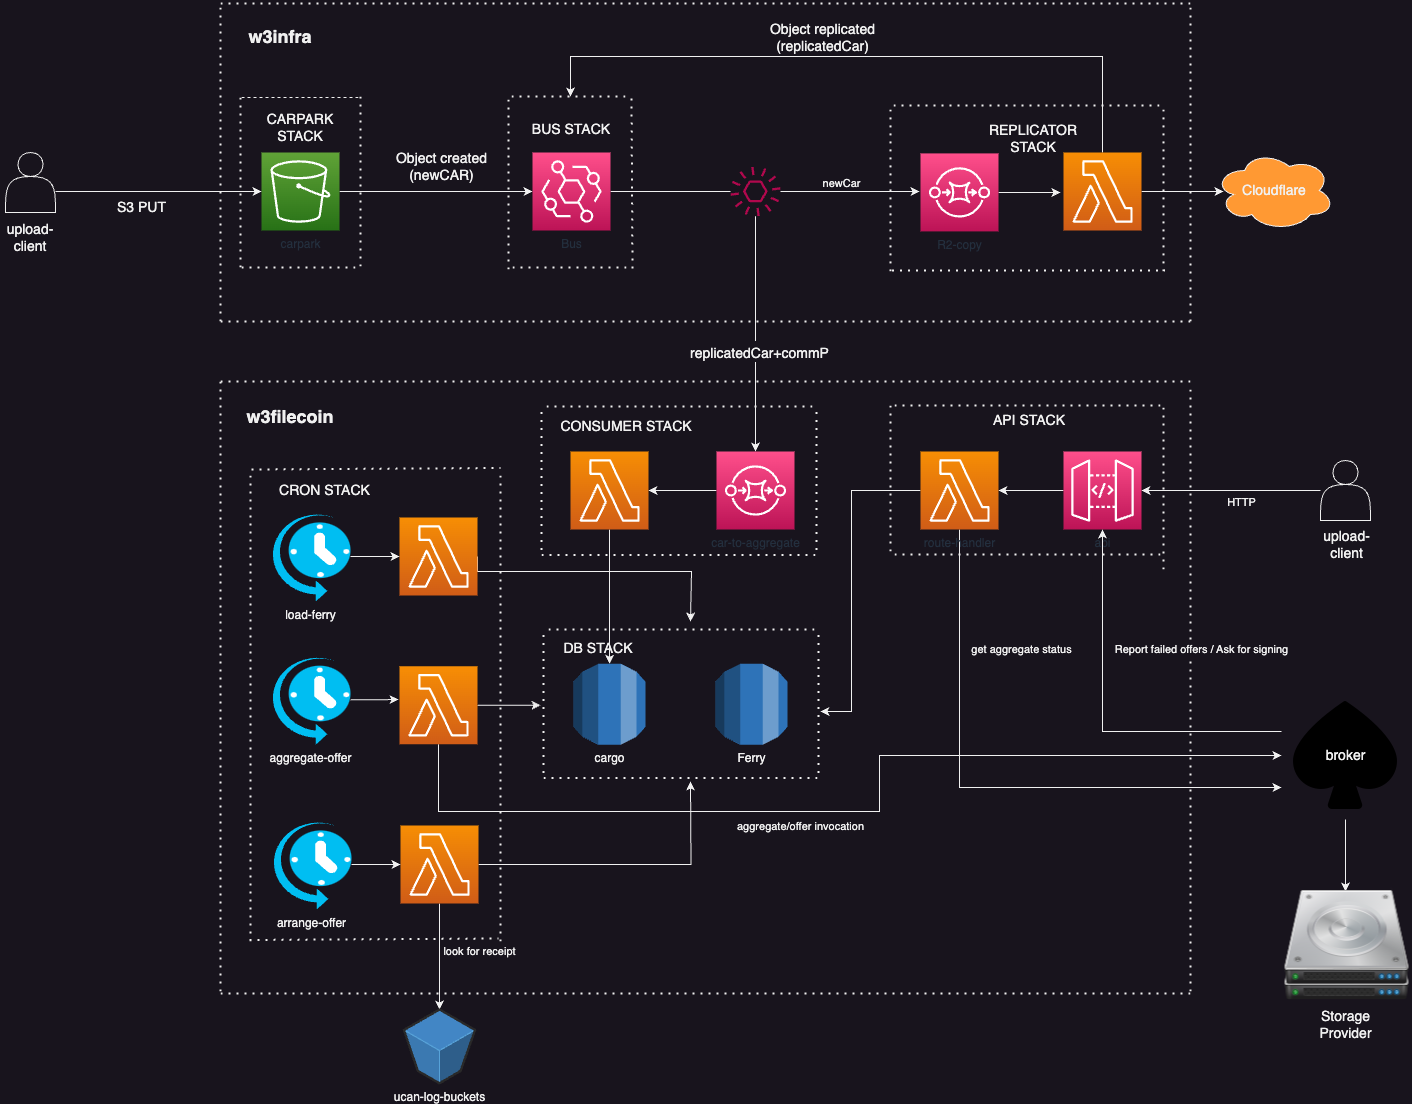
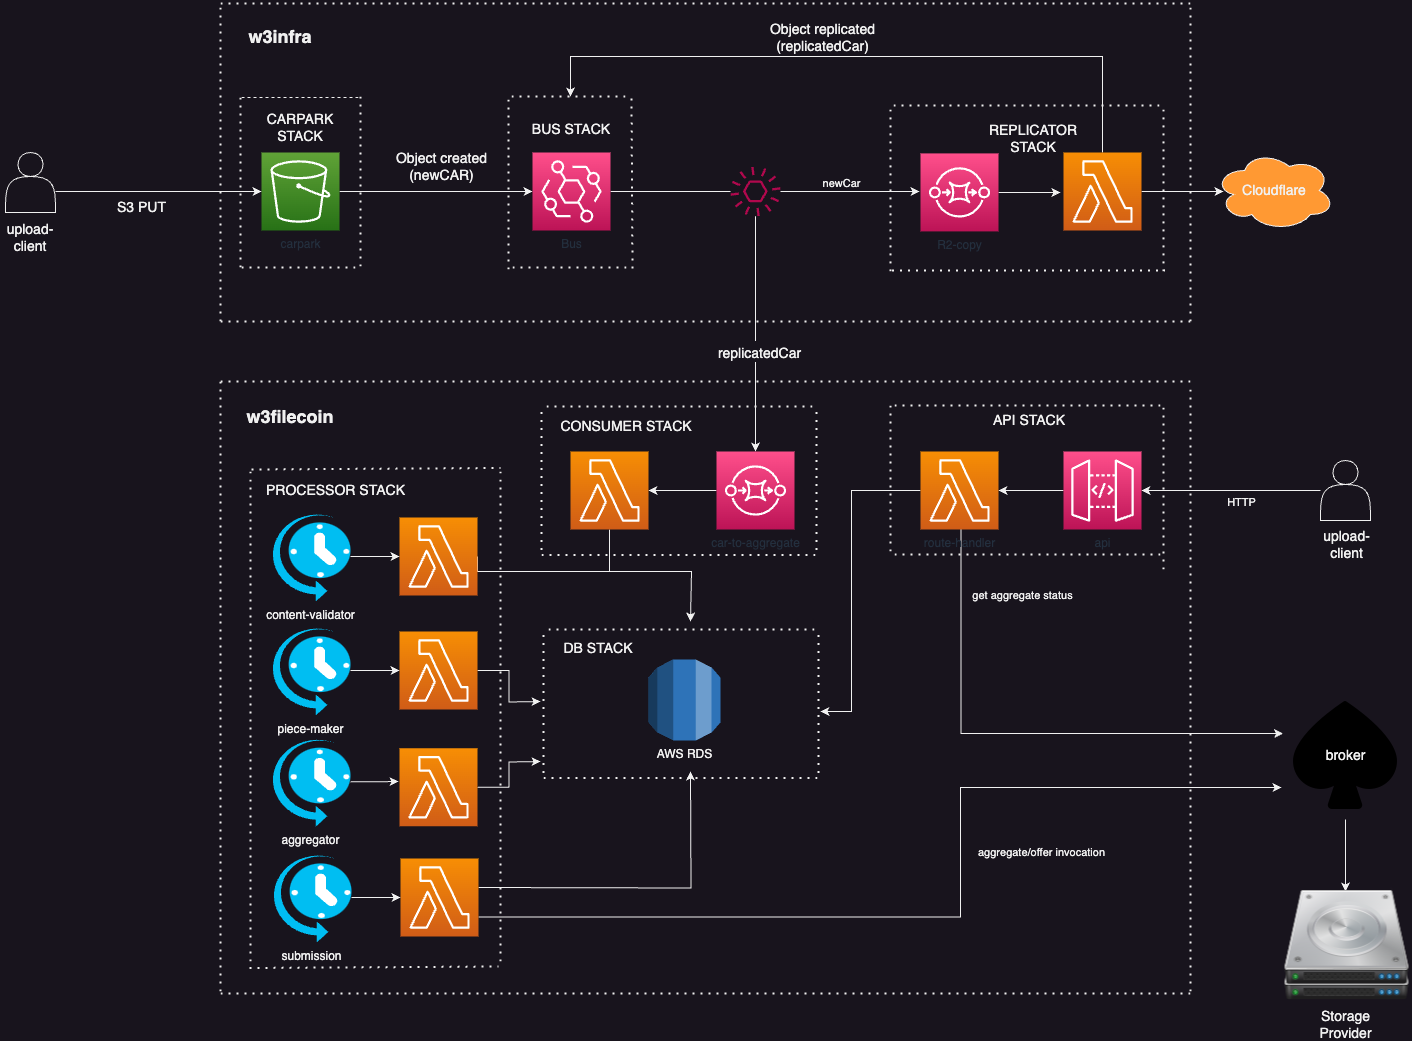
fix: address review by relying on new data model avoiding mutations and schedulers to deal with state machine meaning mutating tables

diff --git a/docs/architecture.md b/docs/architecture.md
@@ -4,39 +4,38 @@
 
 ## Background
 
-[web3.storage](http://web3.storage) APIs enable users to easily upload CAR files, while getting them available on the IPFS Network and stored in multiple locations via Filecoin Storage Providers. 
+[web3.storage](http://web3.storage) is a Storefront providing APIs to enable users to easily upload CAR files, while getting them available on the IPFS Network and stored in multiple locations via Filecoin Storage Providers. It relies on Spade as a broker to get their user data into Filecoin Storage Providers. Currently, Spade requires a Filecoin Piece with size between 15.875GiB and 31.75GiB to create deals with Filecoin Storage Providers. Moreover, the closer a Filecoin Piece is closer to the upper bound, the most optimal are the associated storage costs.
 
-When CAR files are uploaded they go through a pipeline with multiple steps (like indexing blocks, validating blocks, generating commitment proofs, etc). There are two requirements for these CAR files to make their way to the w3filecoin pipeline via its consumer stack:
+Taking into account that [web3.storage](http://web3.storage) onboards any type of content (up to a maximum of 4GiB-padded shards to have better utilization of Fil sector space), multiple CAR files uploaded need to be aggregated into a bigger Piece that can be offered to Filecoin Storage Providers. w3filecoin pipeline keeps track of queued CARs (cargo) to be included in Storage Provider deals.
 
-- CAR file is written into web3.storage’s `carpark` bucket in R2
-- The piece commP and piece size are computed for the CAR file
-
-[web3.storage](http://web3.storage) relies on Spade as a broker to get their user data into Filecoin Storage Providers. Currently, Spade requires a Filecoin Piece with size between 15.875GiB and 31.75GiB to create deals with Filecoin Storage Providers. Moreover, the closer a Filecoin Piece is closer to the upper bound, the most optimal are the associated storage costs.
-
-Taking into account that [web3.storage](http://web3.storage) onboards any type of content (up to a maximum of 4GiB-padded shards to have better utilization of Fil sector space), multiple CAR files uploaded need to be aggregated into a bigger Piece that can be offered to Filecoin Storage Providers. w3filecoin pipeline keeps track of queued CARs (cargo) to be included in Aggregates (ferry), in order to offer these aggregates to Storage Providers. Moreover, w3filecoin operates the lifecycle of these cargo and ferries from ingestion until either succeeding landing into Filecoin deals, or failing.
+When a CAR file is written into a given web3.storage's bucket, its metadata gets into the w3filecoin processing pipeline. This pipeline is composed of multiple processing queues, together with a job scheduler per queue that will perform the processing. Each queue handles a processing stage with the goal of getting CAR files into Filecoin deals with Storage Providers.
 
 ## High Level design
 
 The high level flow for the w3filecoin Pipeline is:
 
-- Event is triggered once each CAR is copied into R2, its metadata {pieceSize+pieceLink+carLink} is added to the consumer of the w3filecoin pipeline (AWS SQS).
-    - This can be achieved by either waiting for a receipt of replication, or AWS Event Bridge event.
-- SQS lambda consumer will add given entries to a cargo tracking DB where we keep track of the CARs awaiting to be included into Storage Providers deals.
-- “Aggregates” (multiple CARs) will be offered to Storage Providers once the available CARs have enough size to fill up one.
-- w3filecoin will keep looking for updates about previously offered aggregates
+- **Event** is triggered once a CAR file is written into a bucket with its metadata {`link`, `size`, `bucketName`, `bucketEndpoint`}. This event is added to a `content_validator_queue`.
+- **Content Validator process** validates CARs and writes references to a `content` table.
+- On its own schedule, **Piece maker process** can pull queued content from a `content_queue`, derive piece info for them and write records to a `piece` & `inclusion` tables.
+  - a `inclusion` table enables same piece to be included in another aggregate if a deal fails.
+- **Agregagtor process** reads from a `cargo_queue` (backed by `inclusion` table), attempts to create an aggregate and if successful it writes to an `aggregate` table.
+- **Submission process** reads from the `aggregate_queue`, submits aggregates to the agency (spade proxy) and writes deal record with status "PENDING".
+- TBD deal flow
 
-The w3filecoin pipeline is modeled into 4 different SST Stacks that will be have their infrastructure provisioned in AWS via AWS CloudFormation. These are:
+![Pipeline processes](./processes.png)
+
+The w3filecoin pipeline is modeled into 4 different SST Stacks that will have their infrastructure provisioned in AWS via AWS CloudFormation. These are:
 
 - API Stack
 - Consumer Stack
 - DB Stack
-- CRON Stack
+- Processor Stack
 
 ![Architecture](./architecture.png)
 
 ## API Stack
 
-TODO
+TBC
 API Gateway to expose:
 - Report API for failed aggregates to land into Storage Providers
 - Get to know state of deals
@@ -44,128 +43,163 @@ API Gateway to expose:
 
 ## Consumer Stack
 
-w3filecoin relies on R2 bucket HTTP URLs as the source that Storage Providers will use to fetch CAR files. This way, we need to wait on the replicator to write CAR files into R2. In addition, w3filecoin requires that a `pieceCid` and `pieceSize` is computed for 
+w3filecoin relies on events from Buckets once CAR files are written into them. It is designed to enable multiple sources of CAR files to be easily integrated into the pipeline via its consumer stack.
 
-Once the above conditions are met, an external source triggers an event to the filecoin pipeline to let it know of a new car to be aggregated. Note that this allows us to make filecoin pipeline work with both w3up and CF Hosted APIs.
+As an example, w3filecoin is wired up with `w3infra` as a source of CAR files to get into Filecoin deals. `w3infra` will emit events once CAR files are written into desired buckets. This events should include necessary information of the location of the CAR file to enable w3filecoin to let Storage Providers know where they can fetch the CAR files from.
 
-Further down the line, in case we make writing to R2 first to better optimize gateway performance, it will also be an easy path forward to hook Filecoin pipeline with it, by leveraging receipts.
-
-For MVP the w3infra replicator lambda sends event to the event bridge, being `w3filecoin` responsible for listening on the event bridge for `car-replicated` events.
+Further down the line, consumer stack can be wired with the UCAN Log Stream and use receipts as the trigger.
 
 ## DB Stack
 
-To get CAR files into an aggregated deal, we will need to persist the metadata of these files pending being added to a Filecoin deal in a queue data structure. Potentially, this data structure could also have the concept of priority.
-
-Queue consumers can be triggered (e.g. via a CRON job) to grab items from the Queue and attempt to create an aggregate with them. In case an aggregate can be created, their state should be modified. We can see this as loading up a ferry with cargo once this shipment is ready to being offered via a broker.
+The DB stack relies on Amazon RDS Database to keep the necessary state for the w3filecoin pipeline. Its data model was designed with the aim of being the data structure for each of the processors running within the pipeline, while also enabling the tracking of state of each item in the pipeline and to get a mapping between content CIDs and piece CIDs.
 
 ### Schema
 
-There are two tables within the DB Stack:
-* Cargo - keeps track of cargo (CAR Files ingested by web3.storage) state
-* Ferry - keeps track of aggregates state
-
-Both tables enable an implementation of a Priority Queued based on a State Machine on top of AWS RDS.
-
 ```sql
-CREATE TABLE cargo
+-- Table describes queue of verified CARs to be stored in filecoin
+-- CAR is considered in queue when there is no piece referencing it
+CREATE TABLE content
 (
-	-- Filecoin Piece CID - commP of CAR file
-	link TEXT PRIMARY KEY,
-	-- Filecoin Piece Size
-  size number NOT NULL,
-	-- CAR file CID
-	car_link TEXT NOT NULL,
-  -- State of the cargo in the pipeline
-  state CARGO_STATE NOT NULL,
-  -- Priority in the queue - for now likely same as queuedAt
-  priority TEXT NOT NULL,
-  -- Timestamp
-  inserted TIMESTAMP WITH TIME ZONE DEFAULT timezone('utc'::text, now()) NOT NULL,
-  -- TODO: Maybe timestamps for other stats?
-  -- Filecoin Aggregate CID - commP of commPs
-  ferry_link TEXT REFERENCES ferry(link),
-  -- Failed to add into aggregate code
-  ferry_failed_code TEXT,
-);
-
-CREATE INDEX cargo_stat_idx ON cargo (stat);
-CREATE INDEX cargo_car_link_idx ON cargo (car_link);
-CREATE INDEX cargo_aggregate_link_idx ON cargo (ferrylink);
-
-CREATE TABLE ferry
-(
-	-- Filecoin Aggregate CID - commP of commPs
+  -- CAR CID
   link TEXT PRIMARY KEY,
-  -- Aggregate size in bytes - TODO: maybe nice to have for metrics
+  -- CAR Size
   size number NOT NULL,
-  -- State of the ferry in the pipeline
-  state FERRY_STATE NOT NULL,
-  -- Priority in the queue - for now likely same as queuedAt
-  priority TEXT NOT NULL,
+  -- Bucket name where the CAR is
+	bucket_name TEXT NOT NULL,
+  -- Endpoint of the bucket
+  bucket_endpoint TEXT NOT NULL,
   -- Timestamp
+  inserted TIMESTAMP WITH TIME ZONE DEFAULT timezone('utc'::text, now()) NOT NULL
+);
+
+-- Table describes pieces derived corresponding to CARs in the content table. Link (commP) is
+-- unique even though cargo reference is not, that is because there may be an error in piece
+-- derivation and in that case another correct piece will reference the same content.
+CREATE TABLE piece
+(
+  -- Piece CID
+  link TEXT NOT NULL PRIMARY KEY,
+  -- Piece size
+  size number NOT NULL,
+  -- Reference to the content of this piece (CAR CID).
+  content TEXT NOT NULL REFERENCES content(link),
+  -- Time when the piece was derived from the content
+  inserted TIMESTAMP WITH TIME ZONE DEFAULT timezone('utc'::text, now()) NOT NULL
+);
+
+-- Content for which we need to derive piece CIDs. We will have a process that
+-- reads from this queue and writes into `piece` table.
+CREATE VIEW content_queue AS
+  SELECT content.*
+  FROM content
+  LEFT OUTER JOIN piece ON content.link = piece.content
+  WHERE piece.content IS NULL;
+
+-- Table describing pieces to be included into aggregates. If aggregate is NULL then the
+-- piece is queued for the aggregation.
+CREATE TABLE inclusion
+(
+  -- Piece CID. Notice that it is not unique because in case of bad piece
+  -- aggregate will be rejected and good pieces will be written back here
+  -- to be included into new aggregate
+  piece TEXT NOT NULL REFERENCES piece(link),
+  
+  -- Aggregate CID, if NULL the the piece is queued for the aggregation
+  aggregate TEXT REFERENCES aggregate(link) NULL,
+
+  -- Priority in the queue. I think it could be a counter on initial inserts hence
+  --  providing FIFO order. When piece is retried (after aggregate is rejected)
+  -- we could keep original priority hence prioritizing it over new items yet
+  -- keeping original FIFO order among rejects.
+  priority TEXT NOT NULL,
+
+  -- Time when the piece was added to the queue.
   inserted TIMESTAMP WITH TIME ZONE DEFAULT timezone('utc'::text, now()) NOT NULL,
+
+  -- Piece may end up in multiple aggregates e.g. if aggregate was rejected
+  PRIMARY KEY (aggregate, piece)
+
+   -- We may also want to write inclusion proof here
 );
 
-CREATE INDEX ferry_stat_idx ON ferry (stat);
-
--- State of Cargo state machine
-CREATE TYPE CARGO_STATE AS ENUM
+-- Table for created aggregates. 
+CREATE TABLE aggregate
 (
-	'QUEUED',
-	'OFFERING',
-	'SUCCEED',
-	'FAILED'
+  -- commP of the aggregate (commP of the commPs)
+  link TEXT PRIMARY KEY NOT NULL,
+  -- Aggregate size
+  size number NOT NULL,
+  -- Time when the aggregate was created
+  inserted TIMESTAMP WITH TIME ZONE DEFAULT timezone('utc'::text, now()) NOT NULL
 );
 
--- State of Ferry state machine:
-CREATE TYPE FERRY_STATE AS ENUM
-(
-	'QUEUED',
-	'ARRANGING',
-	'SUCCEED',
-	'FAILED'
+-- View for inclusion records that do not have an aggregate.
+CREATE VIEW cargo AS
+  SELECT *
+  FROM inclusion
+  WHERE aggregate IS NULL;
+
+-- State of aggregate deals. When aggregate is send to spade-proxy status is 'PENDING'.
+-- When spade-proxy requests a wallet signature, status will be updated to 'SIGNED'. Once
+-- deal is accepted status changes to `APPROVED`, but if deal fails status will be set to
+-- `REJECTED`.
+CREATE TABLE deal (
+  aggregate TEXT PRIMARY KEY NOT NULL REFERENCES aggregate(link),
+  status DEAL_STATUS DEFAULT 'PENDING',
+  -- if status is an error this may contain details about the error e.g. json containing
+  -- piece CIDs that were invalid.
+  detail TEXT,
+  -- Time when aggregate was send to spade-proxy
+  inserted TIMESTAMP WITH TIME ZONE DEFAULT timezone('utc'::text, now()) NOT NULL,
+  -- Time when aggregate was signed
+  signed TIMESTAMP WITH TIME ZONE,
+  -- Time when aggregate was processed
+  processed TIMESTAMP WITH TIME ZONE
 );
+
+CREATE TYPE DEAL_STATUS AS ENUM
+(
+  'PENDING',
+  'SIGNED',
+  'APPROVED',
+  'REJECTED'
+);
+
+-- View of aggregates to be submitted to spade, that is all aggregates that we do not
+-- have deal records for.
+CREATE VIEW aggregate_queue AS
+  SELECT aggregate.*
+  FROM aggregate
+  LEFT OUTER JOIN deal ON aggregate.link = deal.aggregate
+  WHERE deal.aggregate IS NULL;
+
+-- State for the inclusions that made deals fail
+CREATE TABLE inclusion_failure {
+  -- Piece CID
+  piece TEXT NOT NULL REFERENCES piece(link),
+  -- Aggregate CID
+  aggregate TEXT NOT NULL REFERENCES aggregate(link),
+  -- Failure reason
+  reason TEXT NOT NULL,
+  -- Time when failure was reported
+  inserted TIMESTAMP WITH TIME ZONE DEFAULT timezone('utc'::text, now()) NOT NULL,
+
+  PRIMARY KEY (aggregate, piece)
+}
 ```
 
 ![DB Schema](./db-schema.png)
 https://dbdiagram.io/d/649af07402bd1c4a5e249feb
 
-### State Machine
+## Processor Stack
 
-Cargo State Machine might have the following state changes:
-* `QUEUED` -> `OFFERING` - when cargo item is associated with an aggregate to offer for storage
-* `OFFERING` -> `SUCCEED` - end state as cargo is already available in Storage Providers
-* `OFFERING` -> `FAILED` - cargo could not make it to Storage Provider because this specific cargo failed (e.g. wrong commP, or could not be fetched)
-* `OFFERING` -> `QUEUED` - cargo could not make it to Storage Provider because other cargo in same aggregate failed, but there is no issue with this specific cargo reported. Therefore, it can be queued for other Aggregate inclusion
-* `FAILED` -> `SUCCEED` - cargo previously failed but reason behind it is now solved
+The w3infra processor stack manages the deployed schedulers that invoke lambda functions to consume the DB stack queues and attempt to make progress in their items to the following stages of the pipeline.
 
-Ferry State Machine might have the following state changes:
-* `QUEUED` -> `ARRANGING` - when given ferry was included in an `aggregate/offer` invocation to Storage Broker
-* `ARRANGING` -> `SUCCEED` - when `aggregate/offer` for ferry succeeded
-* `ARRANGING` -> `FAILED` - when `aggregate/offer` for ferry failed
+Each of the schedulers might have their own schedules and can act independently of each other.
 
-### Flow
+The processes running in these pipeline are:
 
-1. CAR Files get inserted into `cargo` Table once `R2 write` AND `commP write` events happen (Consumer stack context)
-2. CRON JOB triggers lambda function over time. Lambda performs:
-    1. queries cargo table for a page of cargo with stat `QUEUED`
-    2. sorts page results by their size and attempts to create an aggregate with a compatible size within the results. In case size is not enough, it attempts to get more pages until either having enough cargo or stopping until next cron call.
-    3. performs a DB transaction updating `stat` to `OFFERING` and setting `aggregateLink` AND insert entry to `ferry` Table with the `aggregate` information (it is required to guarantee previous state are the same and no concurrent job added something to other aggregate in the meantime)
-3. CRON JOB triggers lambda function over time. Lambda performs:
-    1. queries `ferry` table for an entry of stat `QUEUED`
-    2. invokes `aggregate/offer` to spade-proxy (Must be idempotent!!)
-    3. mutates stat to `ARRANGING` in case of partial failure in second write (first was offer invocation), 
-4. CRON keeps triggering Lambda function to check for `Receipts` for ferries with stat `ARRANGING`
-    1. Once receipt is available, `stat` is mutated to either `SUCCEED` or `FAILED`. In case `FAILED`, `cargo` should also have `aggregateFailedCode` updated.
-5. Exposed API endpoint can at any time receive report of offered aggregates failing to get into Filecoin Storage Providers
-    1. performs a DB transaction updating `stat` of ferry from `ARRANGING` to `FAILED`, as well as affected `cargo` to from `OFFERING` to either `QUEUED` or `FAILED` depending if the reason for aggregate to fail was that cargo itself, or not. When a cargo item was responsible for the failure of the aggregate offer (for instance due to wrong commP value provided) a reason code can also be persisted on this transaction.
-6. Exposed API endpoint can at any time receive requests for the state of a given aggregate or CAR file in a deal.
-    1. invokes `aggregate/get` to spade-proxy to grab information about it
-    2. Note that this should ideally be cached to avoid hammering Spade Oracle
-
-
-## Cron Stack
-
-The w3infra cron stack manages the deployed lambda functions that run to consume the DB stack queues and mutate their states as needed.
-
-For more details on these, please refer to the DB Stack Flow subsection.
+1. **Content Validator process** validates CARs and writes references to `content` table.
+2. **Piece maker process** pulls queued content from `content_queue`, derive piece info for them and write records to the `piece` & `inclusion` tables.
+3. **Aggregator process** reads from the `cargo` view, attempts to create an aggregate and, if successful, writes to aggregate table.
+4. **Submission process** reads from the `aggregate_queue`, submits aggregates to the agency (spade proxy) and writes pending deal record.
